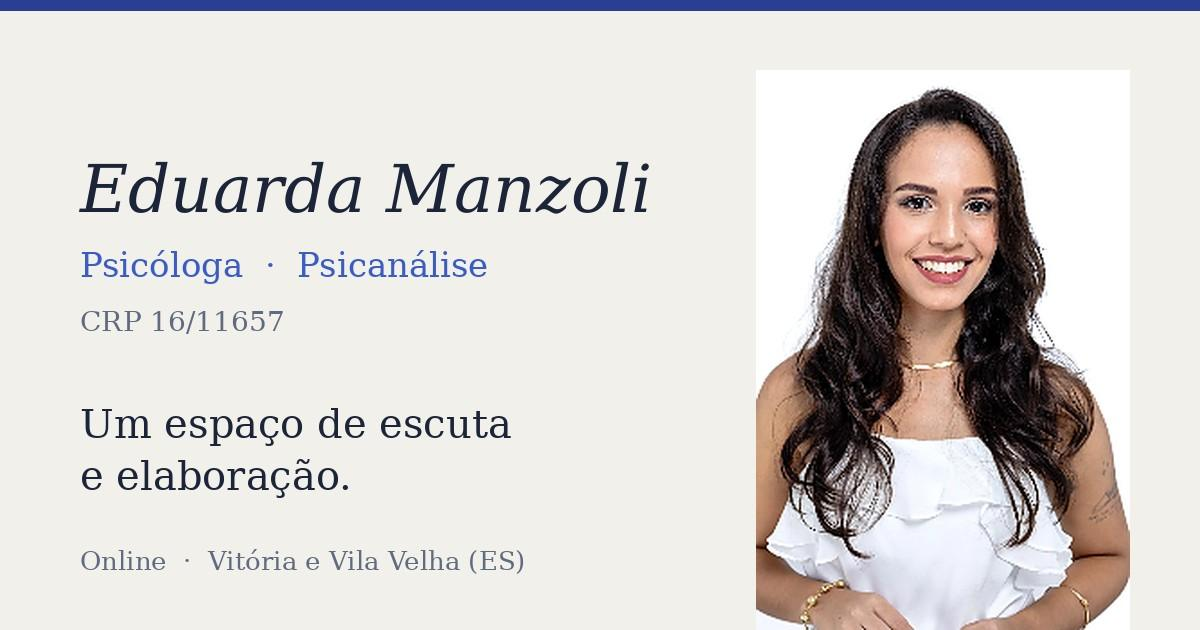
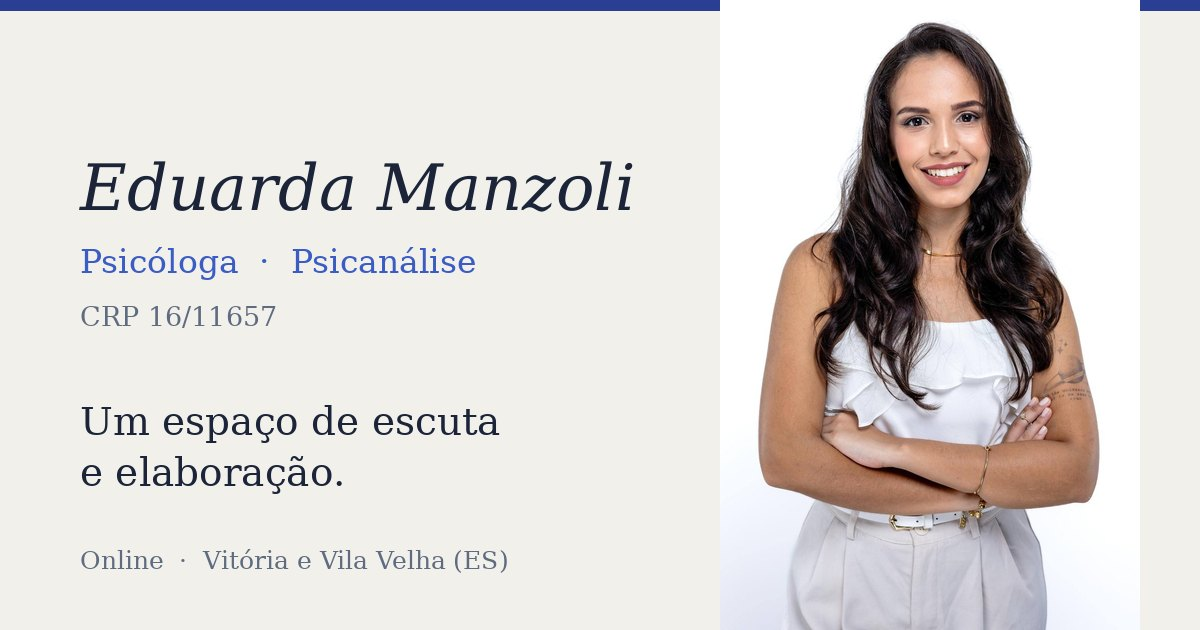
Fotos profissionais da cliente em todo o site
Retrato de estudio no topo, na proporcao original, sem corte. Consultorio na
home, poltrona na pagina Sobre e capas dos textos escolhidas por tema: o volume
de Freud no texto sobre psicanalise, a caneta sobre o livro no texto sobre
sintoma, a escrita no texto sobre repeticao.

diff --git a/index.html b/index.html
@@ -153,7 +153,7 @@ section{position:relative}
 .hero-cta{display:flex;gap:.8rem;margin-top:2.2rem;flex-wrap:wrap}
 .hero-photo{position:relative}
 .hero-photo .snap{transform:rotate(-1.6deg)}
-.hero-photo .ph{aspect-ratio:707/1057;background:#fff}
+.hero-photo .ph{aspect-ratio:2/3;background:#fff}
 .hero-note{position:absolute;bottom:-34px;left:-96px;background:var(--card);border:1px solid var(--line);padding:.9rem 1.15rem;box-shadow:var(--sh);z-index:8;max-width:210px;transform:rotate(1.4deg)}
 .hero-note p{font-family:var(--serif);font-style:italic;font-size:.9rem;color:var(--royal);line-height:1.45}
 .credentials{display:flex;flex-wrap:wrap;gap:.45rem;margin-top:2.4rem}
@@ -589,7 +589,7 @@ h1,h2,h3{text-wrap:balance}
       </div>
     </div>
     <div class="hero-photo">
-      <div class="snap"><div class="tape"></div><div class="ph on"><img src="assets/hero.jpg" alt="Eduarda Manzoli, psicóloga, CRP 16/11657" style="object-fit:contain;background:#fff" loading="eager" fetchpriority="high" decoding="async"></div><span class="cap">Eduarda Manzoli · CRP 16/11657</span></div>
+      <div class="snap"><div class="tape"></div><div class="ph on"><img src="assets/hero.jpg" alt="Eduarda Manzoli, psicóloga, CRP 16/11657" style="object-position:center top" loading="eager" fetchpriority="high" decoding="async"></div><span class="cap">Eduarda Manzoli · CRP 16/11657</span></div>
       <div class="hero-note"><p>“Escutar alguém profundamente exige abrir mão do lugar de quem sabe.”</p></div>
     </div>
   </div>
@@ -737,7 +737,7 @@ h1,h2,h3{text-wrap:balance}
     </div>
   </section>
   <section style="padding-bottom:76px">
-    <div class="wrap" style="max-width:900px"><div class="snap"><div class="tape"></div><div class="ph on" style="height:420px"><img src="assets/formacao.jpg" alt="Formatura em Psicologia pela UFES" style="object-position:center 26%" loading="lazy" decoding="async"></div><span class="cap">Formação em Psicologia · Universidade Federal do Espírito Santo</span></div></div>
+    <div class="wrap" style="max-width:900px"><div class="snap"><div class="tape"></div><div class="ph on" style="height:420px"><img src="assets/sobre-banner.jpg" alt="Eduarda Manzoli em atendimento" style="object-position:center 30%" loading="lazy" decoding="async"></div><span class="cap">Escuta e elaboração · Vitória e Vila Velha</span></div></div>
   </section>
   <section class="sec alt" style="padding-top:84px">
     <div class="wrap article">
@@ -810,7 +810,7 @@ h1,h2,h3{text-wrap:balance}
       <div class="meta" style="justify-content:center" id="po-meta"></div>
     </div>
   </section>
-  <div class="wrap" style="max-width:900px;margin-bottom:3.4rem"><div class="snap"><div class="tape"></div><div class="ph on" id="po-capa" style="height:420px"><img src="assets/capa-olhos.jpg" alt="Imagem de capa do texto" loading="lazy" decoding="async"></div></div></div>
+  <div class="wrap" style="max-width:900px;margin-bottom:3.4rem"><div class="snap"><div class="tape"></div><div class="ph on" id="po-capa" style="height:420px"><img src="assets/capa-freud.jpg" alt="Imagem de capa do texto" loading="lazy" decoding="async"></div></div></div>
   <section style="padding-bottom:100px">
     <div class="wrap article">
       <div id="po-body"></div>
@@ -1037,7 +1037,7 @@ h1,h2,h3{text-wrap:balance}
               <div class="field"><label>Tags</label><div style="display:flex;gap:.3rem;flex-wrap:wrap;margin-top:.3rem"><span class="tag">transferência</span><span class="tag">Freud</span><span class="tag" style="border-style:dashed">＋</span></div></div>
             </div></div>
             <div class="panel"><div class="panel-h"><h3>Imagem de capa</h3></div><div class="panel-b">
-              <div class="ph on" style="height:106px;margin-bottom:.6rem"><img src="assets/capa-olhos.jpg" alt="Capa atual do texto" loading="lazy" decoding="async"></div>
+              <div class="ph on" style="height:106px;margin-bottom:.6rem"><img src="assets/capa-freud.jpg" alt="Capa atual do texto" loading="lazy" decoding="async"></div>
               <div class="drop">Arraste uma imagem ou clique para escolher</div>
             </div></div>
             <div class="panel"><div class="panel-h"><h3>SEO</h3></div><div class="panel-b">
@@ -1174,10 +1174,10 @@ Presencial em Vitória e Vila Velha (ES)</textarea></div></div></div>
           <tbody>
             <tr style="cursor:pointer" onclick="cms('aparencia')"><td><div class="tt"><div class="thumb ph on"><img src="assets/hero.jpg" alt="" loading="lazy"></div><div><b>Início</b><small>Hero, clínica, como funciona, dúvidas</small></div></div></td><td class="opt2" style="color:var(--muted)">/</td><td><span class="st pub">Publicada</span></td><td class="opt" style="color:var(--muted)">12 ago 2026</td><td><span class="rowact">Editar</span></td></tr>
             <tr style="cursor:pointer" onclick="cms('aparencia')"><td><div class="tt"><div class="thumb ph on"><img src="assets/consultorio.jpg" alt="" loading="lazy"></div><div><b>Sobre</b><small>História, formação, onde atendo</small></div></div></td><td class="opt2" style="color:var(--muted)">/sobre</td><td><span class="st pub">Publicada</span></td><td class="opt" style="color:var(--muted)">02 ago 2026</td><td><span class="rowact">Editar</span></td></tr>
-            <tr style="cursor:pointer" onclick="cms('blog')"><td><div class="tt"><div class="thumb ph on"><img src="assets/capa-olhos.jpg" alt="" loading="lazy"></div><div><b>Escritos</b><small>Índice do blog</small></div></div></td><td class="opt2" style="color:var(--muted)">/escritos</td><td><span class="st pub">Publicada</span></td><td class="opt" style="color:var(--muted)">12 ago 2026</td><td><span class="rowact">Editar</span></td></tr>
-            <tr style="cursor:pointer" onclick="cms('aparencia')"><td><div class="tt"><div class="thumb ph on"><img src="assets/capa-campus.jpg" alt="" loading="lazy"></div><div><b>Contato</b><small>Formulário, WhatsApp, endereços</small></div></div></td><td class="opt2" style="color:var(--muted)">/contato</td><td><span class="st pub">Publicada</span></td><td class="opt" style="color:var(--muted)">28 jul 2026</td><td><span class="rowact">Editar</span></td></tr>
-            <tr style="cursor:pointer" onclick="cms('config')"><td><div class="tt"><div class="thumb ph on"><img src="assets/capa-mar.jpg" alt="" loading="lazy"></div><div><b>Política de Privacidade</b><small>Sigilo, LGPD, dados coletados</small></div></div></td><td class="opt2" style="color:var(--muted)">/privacidade</td><td><span class="st pub">Publicada</span></td><td class="opt" style="color:var(--muted)">15 jul 2026</td><td><span class="rowact">Editar</span></td></tr>
-            <tr style="cursor:pointer" onclick="toast('Esta página ainda é um rascunho e não aparece no site')"><td><div class="tt"><div class="thumb ph on"><img src="assets/capa-pincel.jpg" alt="" loading="lazy"></div><div><b>Perguntas frequentes</b><small>Página separada de dúvidas</small></div></div></td><td class="opt2" style="color:var(--muted)">/duvidas</td><td><span class="st dra">Rascunho</span></td><td class="opt" style="color:var(--muted)">·</td><td><span class="rowact">Editar</span></td></tr>
+            <tr style="cursor:pointer" onclick="cms('blog')"><td><div class="tt"><div class="thumb ph on"><img src="assets/capa-freud.jpg" alt="" loading="lazy"></div><div><b>Escritos</b><small>Índice do blog</small></div></div></td><td class="opt2" style="color:var(--muted)">/escritos</td><td><span class="st pub">Publicada</span></td><td class="opt" style="color:var(--muted)">12 ago 2026</td><td><span class="rowact">Editar</span></td></tr>
+            <tr style="cursor:pointer" onclick="cms('aparencia')"><td><div class="tt"><div class="thumb ph on"><img src="assets/contato.jpg" alt="" loading="lazy"></div><div><b>Contato</b><small>Formulário, WhatsApp, endereços</small></div></div></td><td class="opt2" style="color:var(--muted)">/contato</td><td><span class="st pub">Publicada</span></td><td class="opt" style="color:var(--muted)">28 jul 2026</td><td><span class="rowact">Editar</span></td></tr>
+            <tr style="cursor:pointer" onclick="cms('config')"><td><div class="tt"><div class="thumb ph on"><img src="assets/capa-caneta.jpg" alt="" loading="lazy"></div><div><b>Política de Privacidade</b><small>Sigilo, LGPD, dados coletados</small></div></div></td><td class="opt2" style="color:var(--muted)">/privacidade</td><td><span class="st pub">Publicada</span></td><td class="opt" style="color:var(--muted)">15 jul 2026</td><td><span class="rowact">Editar</span></td></tr>
+            <tr style="cursor:pointer" onclick="toast('Esta página ainda é um rascunho e não aparece no site')"><td><div class="tt"><div class="thumb ph on"><img src="assets/capa-chao.jpg" alt="" loading="lazy"></div><div><b>Perguntas frequentes</b><small>Página separada de dúvidas</small></div></div></td><td class="opt2" style="color:var(--muted)">/duvidas</td><td><span class="st dra">Rascunho</span></td><td class="opt" style="color:var(--muted)">·</td><td><span class="rowact">Editar</span></td></tr>
           </tbody></table></div>
         </div>
       </div>
@@ -1293,7 +1293,7 @@ var POSTS=[
         ["O improviso",["Ninguém tem o manual. As escolhas são feitas com informação incompleta, e as consequências só aparecem depois. Isso não é falha de caráter: é a condição.","Aceitar o improviso não é desistir de mudar. É parar de gastar energia se punindo por não ter acertado antes de ser possível saber."]]]}
 ];
 var rota='home', silencioso=true, postAtual=0;
-var CAPAS=["capa-olhos.jpg", "capa-mar.jpg", "capa-praia.jpg", "escuta.jpg", "capa-pincel.jpg", "capa-campus.jpg", "consultorio.jpg"];
+var CAPAS=["capa-freud.jpg","capa-leitura.jpg","capa-parede.jpg","capa-livro.jpg","capa-caneta.jpg","capa-escrita.jpg","capa-chao.jpg"];
 var FILTRO='Todos', PAG=1, PORPAG=6;
 
 /* ---------- render ---------- */
@@ -1363,7 +1363,7 @@ function rows(n){var h='';for(var i=0;i<n;i++){var p=POSTS[i%POSTS.length],s=ST[
  h+='<tr onclick="cms(\'editor\')" style="cursor:pointer"><td><div class="tt"><div class="thumb ph on"><img src="assets/'+CAPAS[i%CAPAS.length]+'" alt="" loading="lazy"></div><div><b>'+p.t+'</b><small>/escritos/'+slug(p.t)+'</small></div></div></td><td class="opt2" style="color:var(--muted)">'+p.c+'</td><td><span class="st '+s+'">'+STL[s]+'</span></td><td class="opt" style="color:var(--muted)">'+p.d+'</td><td class="opt" style="color:var(--muted)">'+(s=='pub'?p.v:'·')+'</td><td><span class="rowact" onclick="event.stopPropagation();toast(\'Editar · Duplicar · Excluir\')">•••</span></td></tr>';}return h;}
 document.getElementById('cms-rows').innerHTML=rows(8);
 document.getElementById('cms-rows-mini').innerHTML=rows(4);
-var MIDIA=["hero.jpg","retrato.jpg","consultorio.jpg","formacao.jpg","escuta.jpg","capa-olhos.jpg","capa-mar.jpg","capa-praia.jpg","capa-pincel.jpg","capa-campus.jpg","capa-formatura.jpg","hero.jpg"];
+var MIDIA=["hero.jpg","retrato.jpg","consultorio.jpg","sobre-banner.jpg","contato.jpg","capa-freud.jpg","capa-leitura.jpg","capa-parede.jpg","capa-livro.jpg","capa-caneta.jpg","capa-escrita.jpg","capa-chao.jpg"];
 document.getElementById('media-grid').innerHTML=MIDIA.map(function(f,i){
  return '<div class="it ph on" title="'+f+'" onclick="toast(\''+f+' selecionada. Use ‘Trocar imagem’ para aplicar\')"><img src="assets/'+f+'" alt="" loading="lazy"></div>';}).join('');
 
